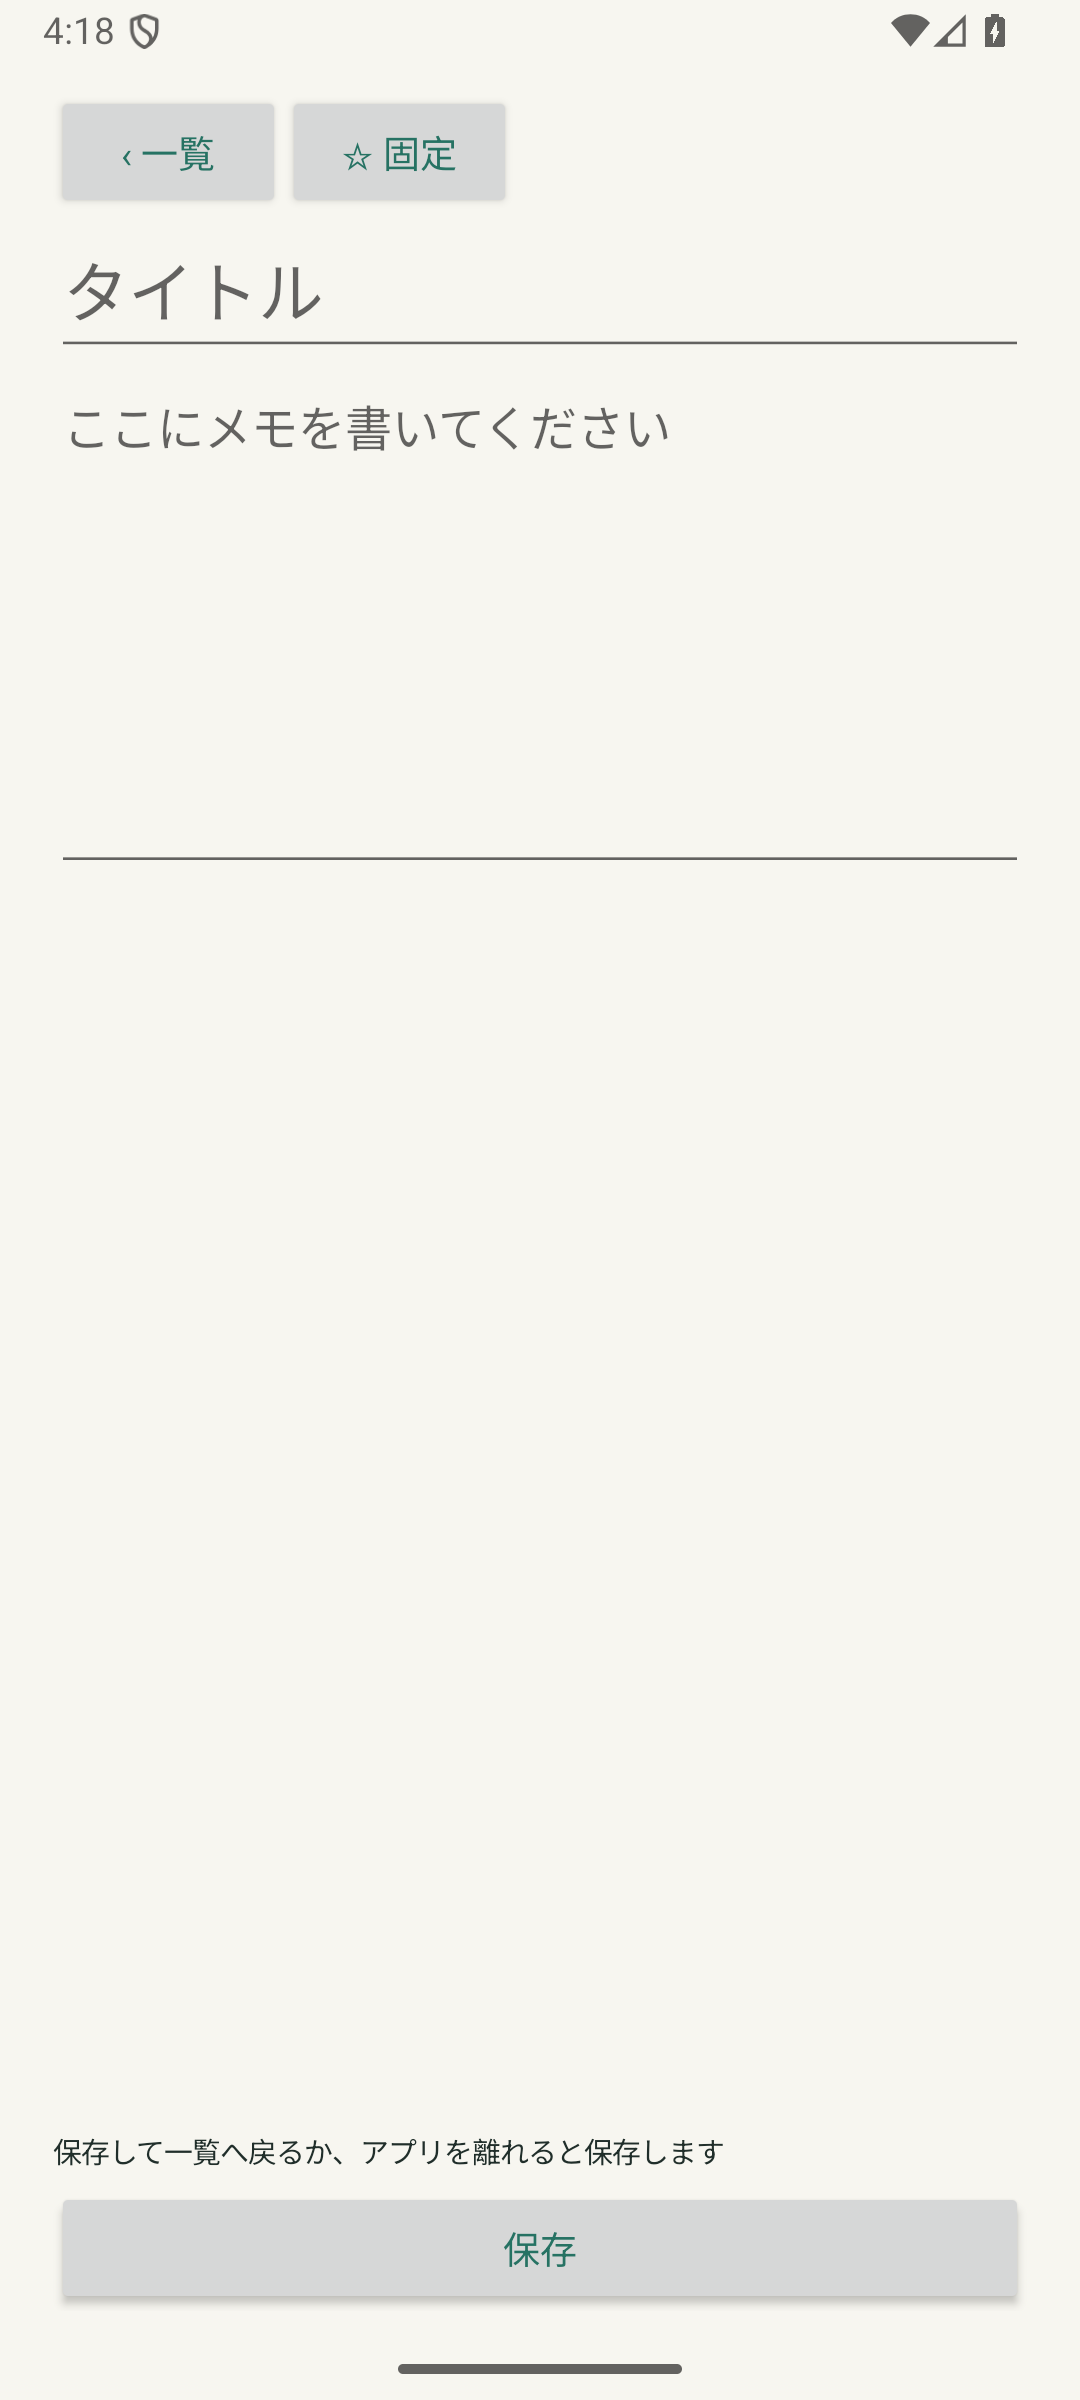
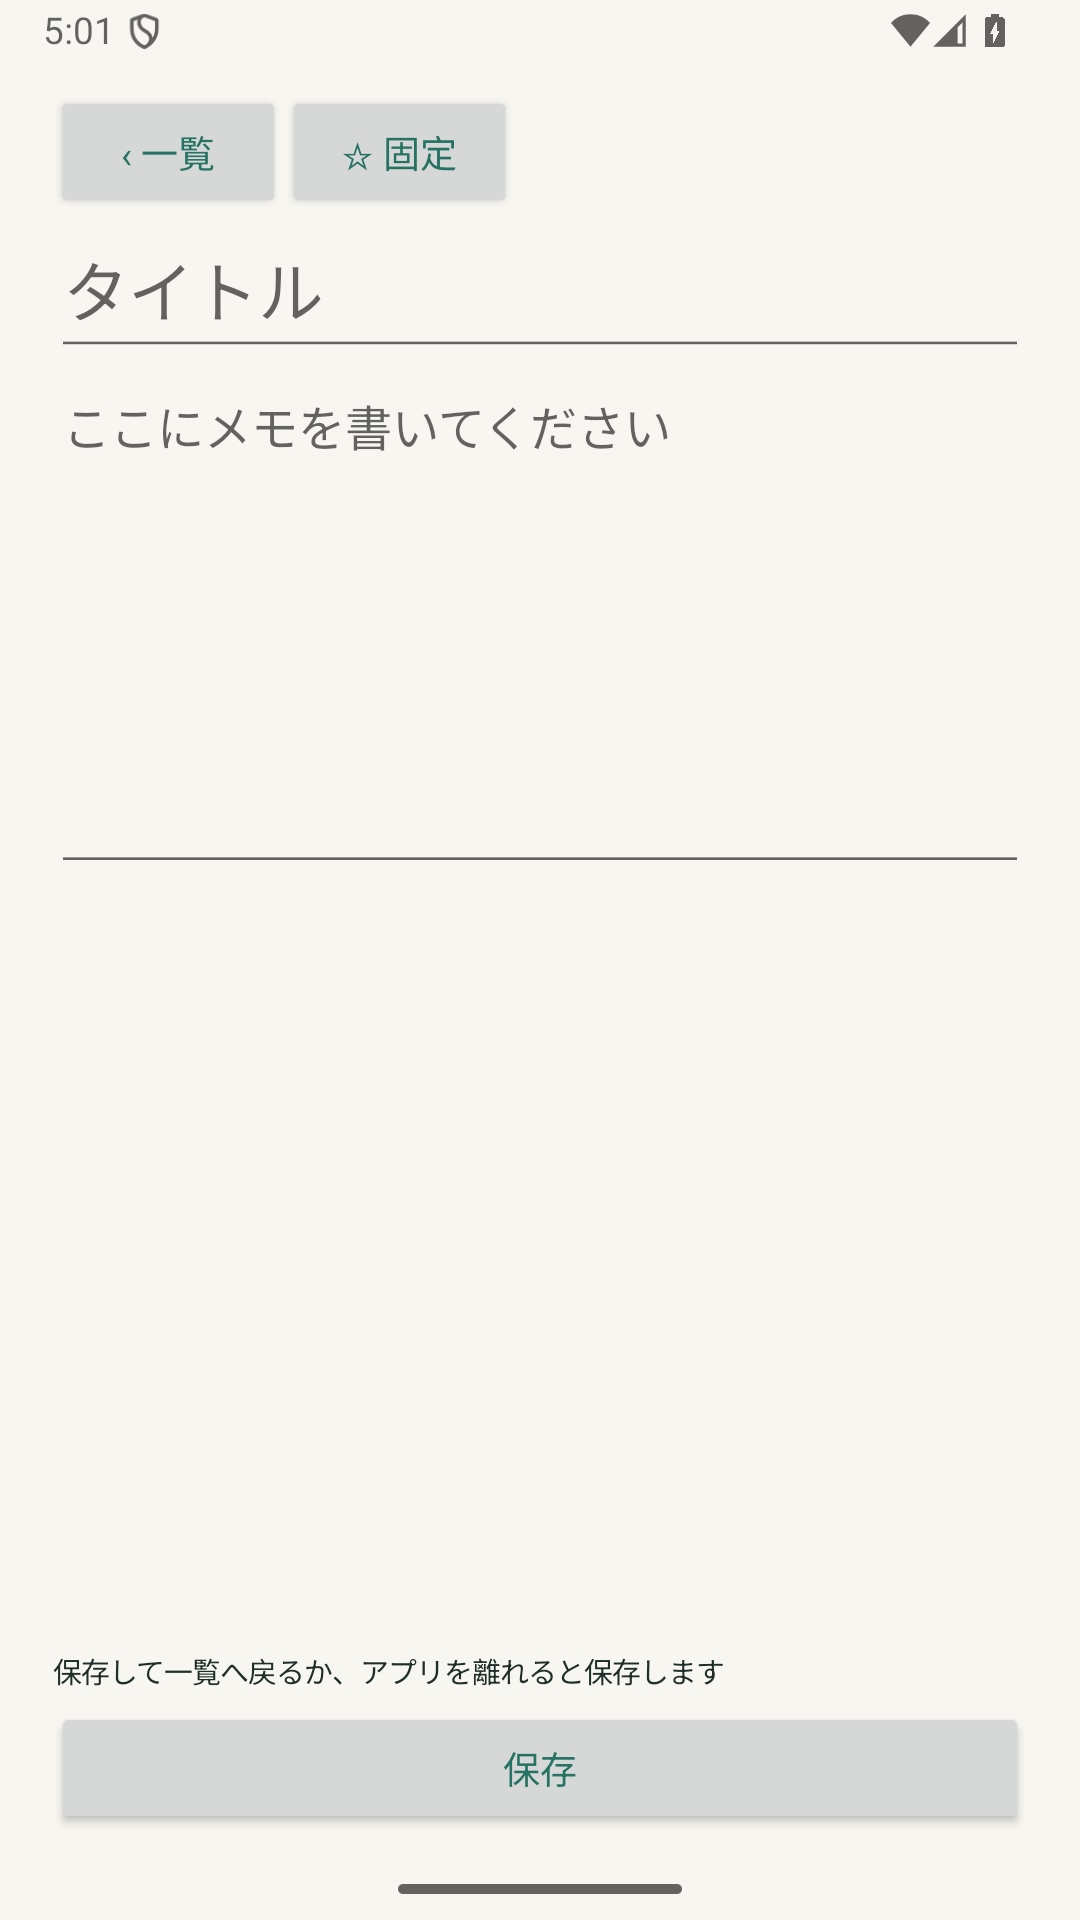
Link hosted privacy policy from app and capture store-sized screenshots

diff --git a/app/src/main/java/app/sumimemo/offline/MainActivity.java b/app/src/main/java/app/sumimemo/offline/MainActivity.java
@@ -31,7 +31,7 @@ public class MainActivity extends Activity {
         EditText search=new EditText(this);search.setSingleLine(true);search.setHint("タイトル・本文を検索");search.setText(query);root.addView(search);search.addTextChangedListener(new TextWatcher(){public void beforeTextChanged(CharSequence s,int a,int c,int f){} public void onTextChanged(CharSequence s,int a,int b,int c){query=s.toString();renderNotes();}public void afterTextChanged(Editable e){}});
         ScrollView scroll=new ScrollView(this);items=column();scroll.addView(items);root.addView(scroll,new LinearLayout.LayoutParams(-1,0,1));renderNotes();
         if(!trash)root.addView(button("＋ 新しいメモ",()->openEditor(-1,"","",false)));
-        root.addView(button("プライバシーと使い方",()->new AlertDialog.Builder(this).setTitle("手元だけに残すメモ").setMessage("メモはこの端末のアプリ内にのみ保存されます。広告・解析・アカウント・通信機能はありません。\n\n編集は保存ボタン、戻る操作、アプリを離れる際に保存されます。削除したメモはごみ箱から復元できます。アプリの削除やデータ消去でメモは失われます。OSの自動バックアップは無効です。\n\nこのアプリは暗号化された保管庫ではありません。機密情報の保存には適していません。").setPositiveButton("閉じる",null).show()));
+        root.addView(button("プライバシーと使い方",()->new AlertDialog.Builder(this).setTitle("手元だけに残すメモ").setMessage("メモはこの端末のアプリ内にのみ保存されます。広告・解析・アカウント・通信機能はありません。\n\n編集は保存ボタン、戻る操作、アプリを離れる際に保存されます。削除したメモはごみ箱から復元できます。アプリの削除やデータ消去でメモは失われます。OSの自動バックアップは無効です。\n\nこのアプリは暗号化された保管庫ではありません。機密情報の保存には適していません。").setNeutralButton("ポリシー全文",(dialog,which)->{try{startActivity(new Intent(Intent.ACTION_VIEW,android.net.Uri.parse("https://msandroid.github.io/sumi-memo/")));}catch(ActivityNotFoundException e){Toast.makeText(this,"ブラウザーが見つかりません",Toast.LENGTH_LONG).show();}}).setPositiveButton("閉じる",null).show()));
     }
     void renderNotes(){if(items==null)return;items.removeAllViews();String escaped=query.replace("\\","\\\\").replace("%","\\%").replace("_","\\_");Cursor c=db.rawQuery("SELECT _id,title,body,pinned,updated FROM notes WHERE deleted=? AND (title LIKE ? ESCAPE '\\' OR body LIKE ? ESCAPE '\\') ORDER BY pinned DESC,updated DESC,_id DESC",new String[]{trash?"1":"0","%"+escaped+"%","%"+escaped+"%"});
         try{if(!c.moveToFirst()){TextView empty=label(query.isEmpty()?(trash?"ごみ箱は空です":"まだメモはありません\n下のボタンから書き始めましょう") :"一致するメモがありません",18);empty.setPadding(0,dp(40),0,dp(40));items.addView(empty);return;}
